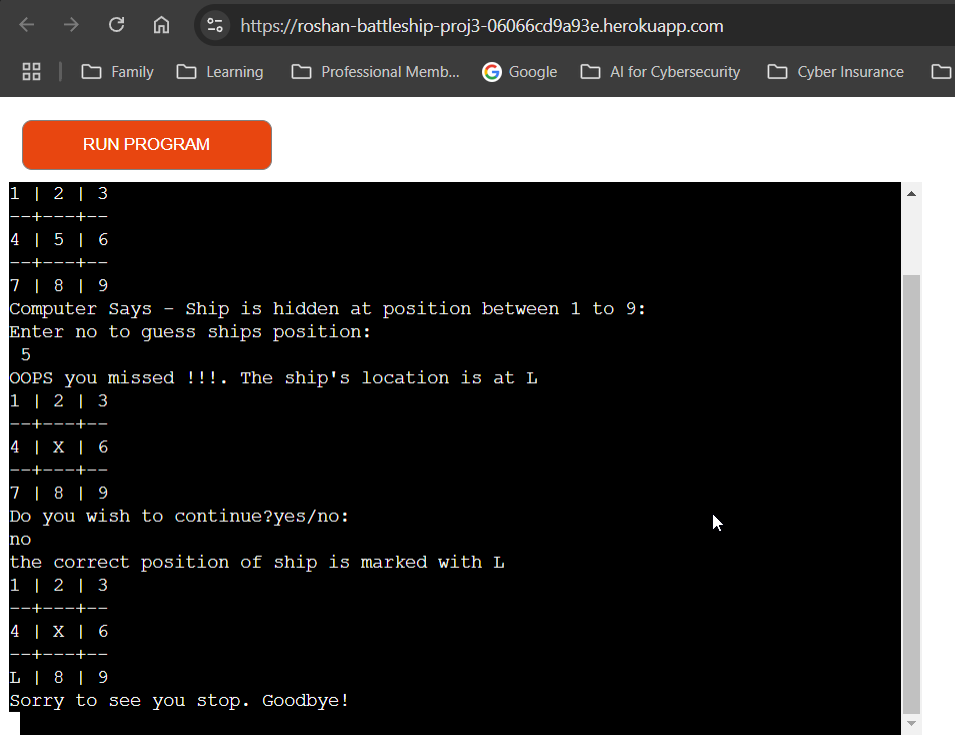
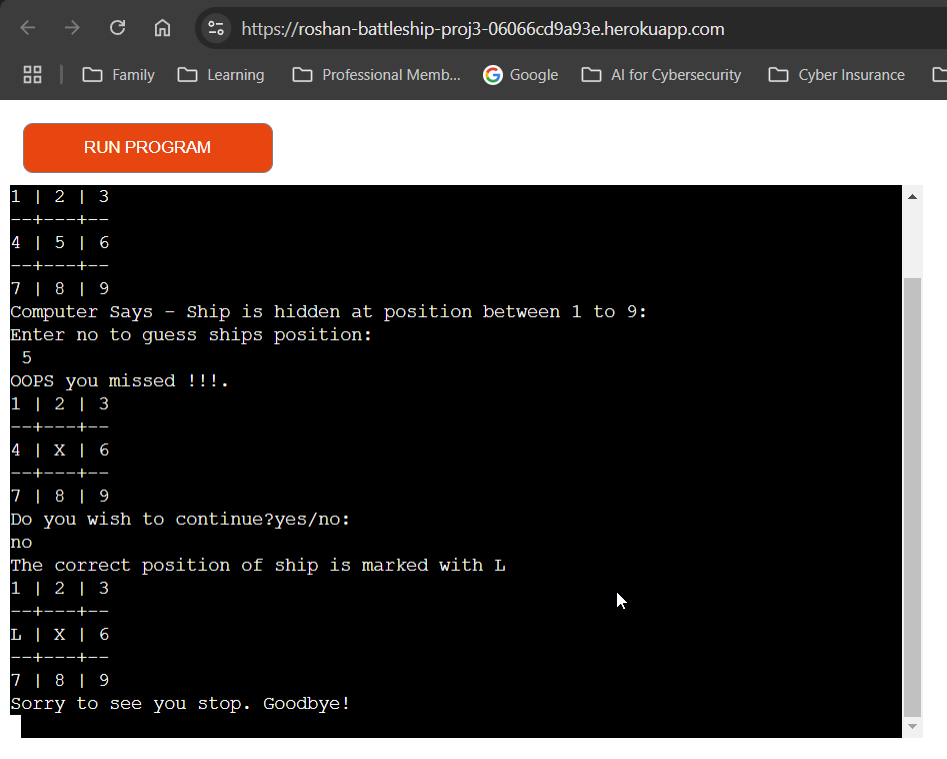
modified readme file

diff --git a/README.md b/README.md
@@ -63,6 +63,9 @@ The choice of this game for this project is to present the ***user*** with a gam
 
 - Use color packages like **colorama** or **termcolor** to print bold text.  
 - Display images using libraries like **openCV**, **matplotlib**, **pillow** or **tensorflow**.
+- when the user hits the jackpot, it is assumed that the user will exit the game.The logic if user chooses to continue 
+  the game would provide the user with a board where the ship's location is marked with a **H**.
+![play_game_user_hits_jackpot](readme.doc/play_game_user_hits_jackpot.png)  
 
 
 ## Install pytz package and configure timezone
@@ -109,32 +112,40 @@ The choice of this game for this project is to present the ***user*** with a gam
 ### Test,validate and visualize "play_game" function
 
 **User is asked to guess a number** 
+- it is important to understand that every miss is marked with a **X**, when the board is printed again.
 
-![user_input_guess_ship_1](readme.doc/user_input_guess_ship_1.png)
+![play_game_user_input_guess_ship_1](readme.doc/play_game_user_input_guess_ship_1.png)
 
-**user choose to continue- input from user to prompt is "YES"** 
-
-![user_choose_continue](readme.doc/user_choose_continue.png)
 
 **user input validation and data type validation**
 ![input_type_and_data_type_validation](readme.doc/input_type_and_data_type_validation.png)
 
 ### Test,validate and visualize "continue_game" function
 
-**user inputs YES- game continues** 
+**user choose to continue- input from user to prompt is "YES"** 
 
-![continue_game_yes](readme.doc/continue_game_yes.png)
+![play_game_user_choose_yes](readme.doc/play_game_user_choose_yes.png)
 
 **user inputs NO- game terminates**
+
+- When user selects the **no** option the program terminates.
+- Before termination the board with the correct ship's location marked with **L** is displayed
+- A goodbye message is also printed for the user.  
 
 ![continue_game_no](readme.doc/continue_game_no.png)
 
 **user input validation- Remember we are not testing for data type validation**
 
+- The **while len** method is used to check if the **user_input** is **greater** than **2**.
+- However, if the user inputs an **integer** or **string** greater than **2** then game exits
+
 ![continue_play_input_validation](readme.doc/continue_play_input_validation.png)
 
 
 **user input - strip and lower functions**
+
+ - **strip** function used to remove leading and trailing whitespaces.
+ - **lower** function used to return string in lower case.
 
 ![continue_game_lower_strip](readme.doc/continue_game_lower_strip.png)
 
